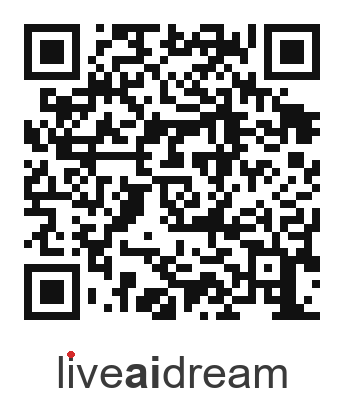
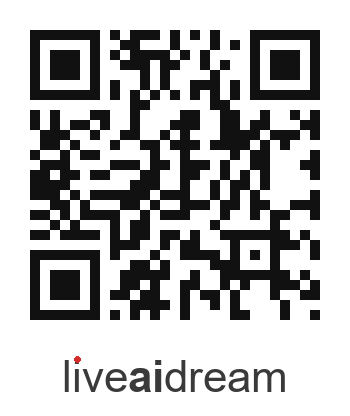
Shrink the headline, cap the footer width, make the codes denser
On a wide screen the cover footer stretched the full 1800px and floated
well clear of the bottom edge. It is capped at 640px and sits one bar
height off the bottom. The headline ran to 104px; it tops out at 72px now.

The codes encode smaller. The root URL carries no path, so it is
uppercased into alphanumeric mode, which is far denser than byte mode --
version 2, 31 modules. Error correction drops from H to Q now that
nothing is drawn over the symbol needing recovery. The game URLs stay
lowercase and go to M: an uppercase path 404s on Netlify, which is worth
knowing before anyone shortens them further.

Smallest width that still decodes, measured over three consecutive sizes
so a lucky hit cannot pass: 62px for the Live AI Dream code, 70px and
78px for the games. The floor was 124px before.

diff --git a/catalogue-2026.html b/catalogue-2026.html
@@ -71,7 +71,7 @@ body{
 }
 .slide.dark .eyebrow{color:var(--red)}
 h1,h2{font-family:var(--display); font-weight:400; margin:0; line-height:.94; letter-spacing:1px; text-wrap:balance}
-h1{font-size:clamp(46px,9vw,104px)}
+h1{font-size:clamp(36px,6vw,72px)}
 h2{font-size:clamp(34px,5.6vw,68px)}
 h3{font-family:var(--cond); font-weight:700; font-size:clamp(17px,2vw,21px); margin:0 0 6px; letter-spacing:.01em}
 .accent{color:var(--red)}
@@ -137,11 +137,13 @@ h3{font-family:var(--cond); font-weight:700; font-size:clamp(17px,2vw,21px); mar
            font-size:clamp(34px,4.6vw,52px); line-height:.9; letter-spacing:1px; margin-bottom:4px}
 
 /* ---- cover: logo tight to the top, credit strip pinned low ------------ */
-.slide.cover{justify-content:space-between; gap:clamp(16px,3vh,30px);
-             padding-top:clamp(16px,3vh,34px)}
+.slide.cover{justify-content:space-between; gap:clamp(14px,2.4vh,24px);
+             padding-top:clamp(16px,3vh,34px);
+             padding-bottom:calc(var(--bar) + 16px)}
 /* the scan tile sets the height; the credit and the buttons stack beside it
    and together come to exactly that height. */
-.coverfoot{display:flex; flex-direction:row; gap:10px; align-items:stretch}
+.coverfoot{display:flex; flex-direction:row; gap:10px; align-items:stretch;
+           width:100%; max-width:640px}
 .scan{flex:0 0 auto; width:clamp(112px,13.5vw,132px); padding:5px; background:#FFFFFF;
       border-radius:2px; display:block; line-height:0; align-self:flex-start}
 .scan img{width:100%; height:auto; display:block;
